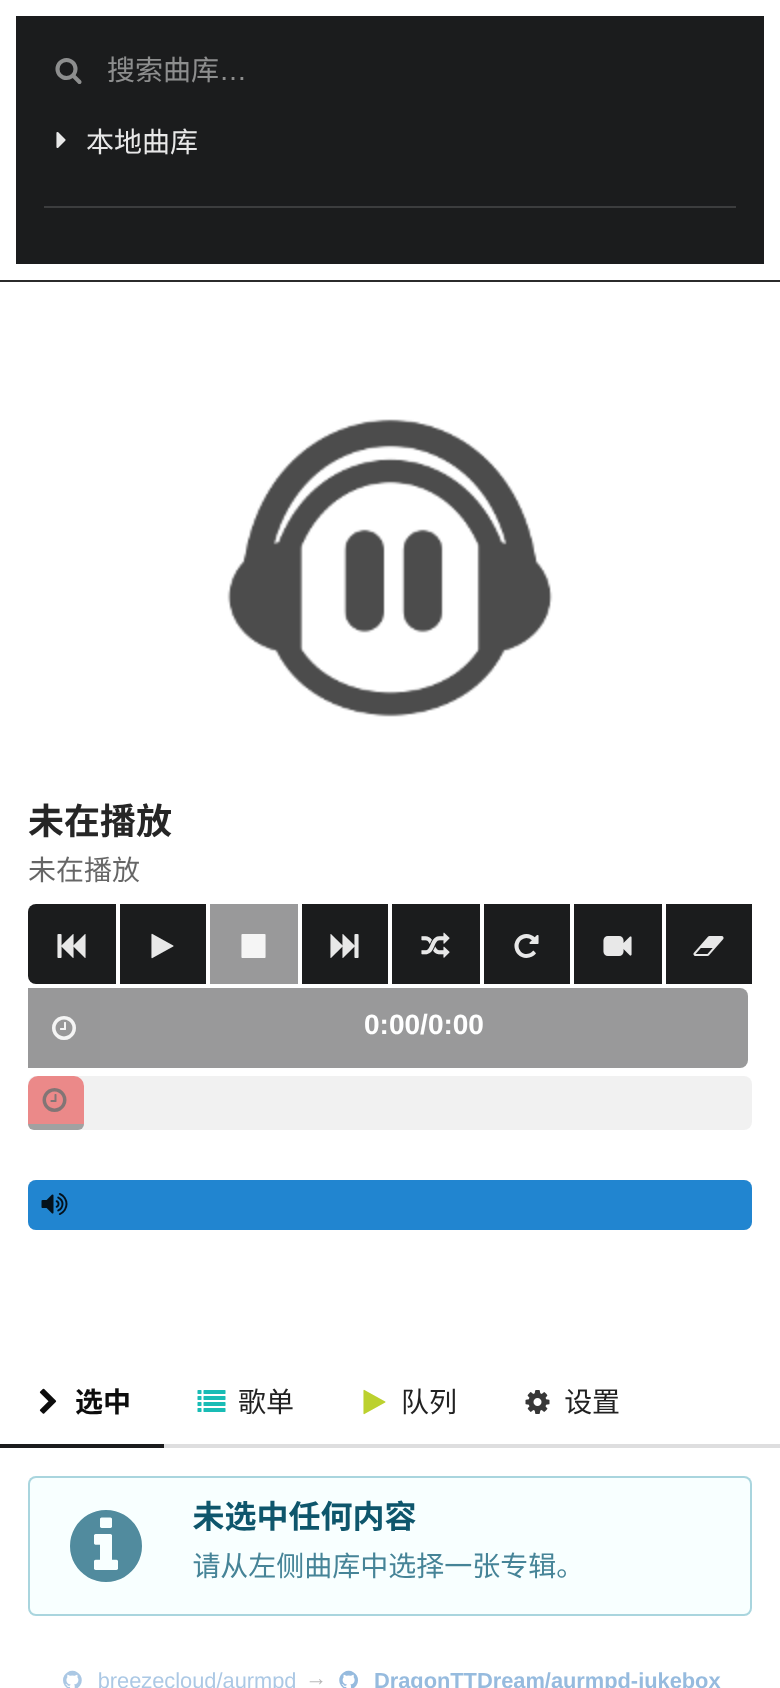
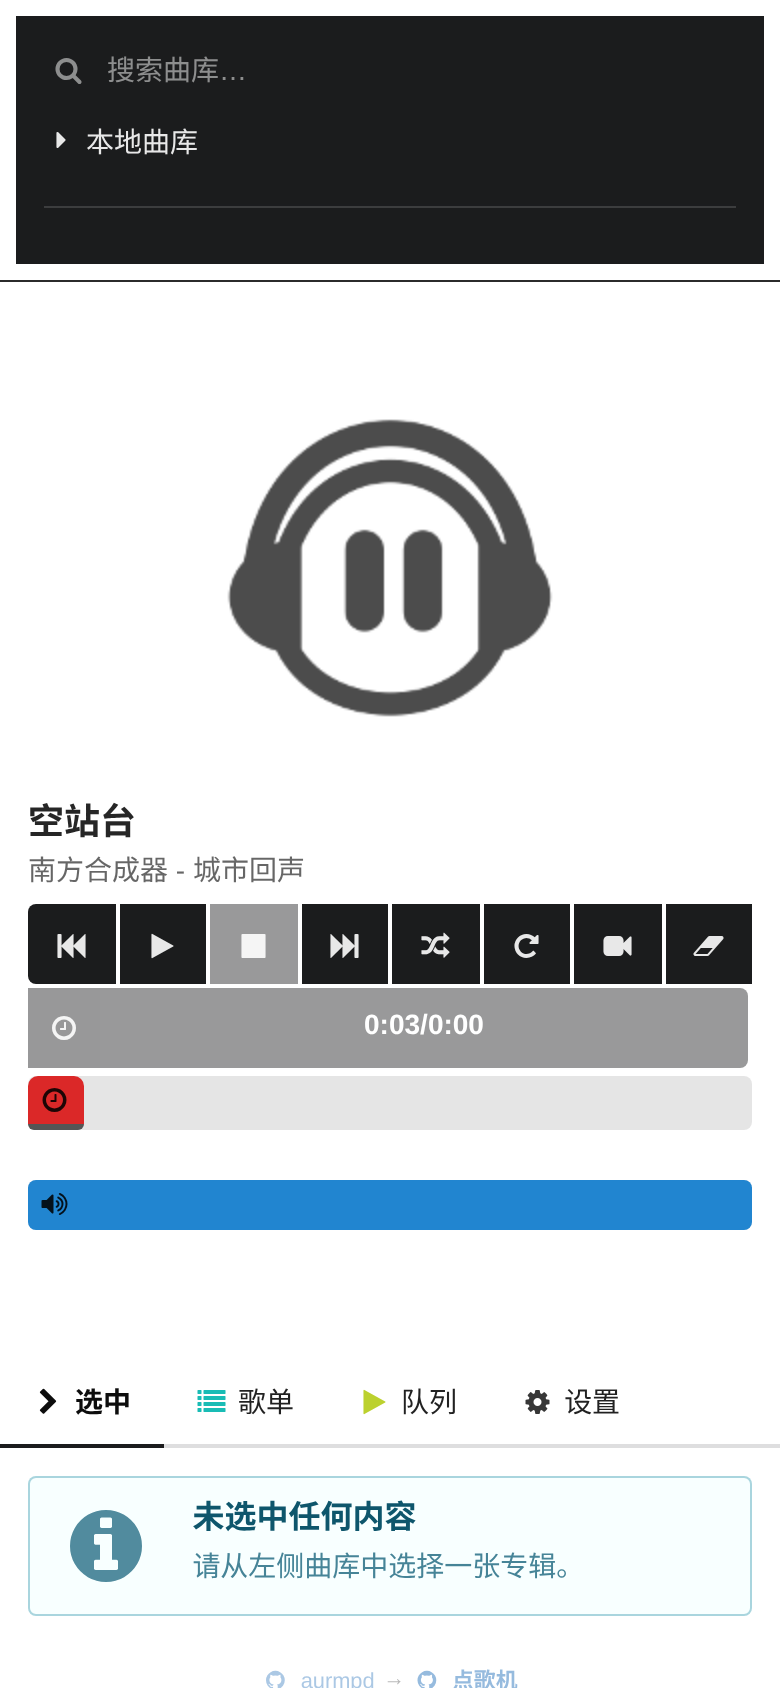
fix(v1.0.3): 页脚署名改为项目名（aurmpd→点歌机），补上缺失的 import
- version.js: 新增 UPSTREAM_NAME='aurmpd'、REPO_NAME='点歌机'；
  LABEL 常量保留，设置页「关于」仍显示完整 org/repo
- app.js: Links 组件改用 NAME 常量；**补上 import**——上一版漏加导致
  UPSTREAM_NAME is not defined、整页白屏（webpack 对未定义全局不报错，
  构建退出码仍为 0）
- 重拍 6 张截图（页脚为项目名）

diff --git a/aurial/src/js/jsx/app.js b/aurial/src/js/jsx/app.js
@@ -1,5 +1,5 @@
 import { h, Component } from 'preact';
-import {UPSTREAM_URL, UPSTREAM_LABEL, REPO_URL, REPO_LABEL} from '../version'
+import {UPSTREAM_URL, UPSTREAM_LABEL, UPSTREAM_NAME, REPO_URL, REPO_LABEL, REPO_NAME} from '../version'
 import Events from '../events'
 import PlayerExtras from '../playerextra'
 import Player from './player'
@@ -192,12 +192,12 @@ class Links extends Component {
 			<div className="links">
 				<a className="repo-link upstream" href={UPSTREAM_URL} title={t('app.upstream') + ' · ' + UPSTREAM_LABEL}>
 					<i className="github icon"></i>
-					<span className="repo-name">{UPSTREAM_LABEL}</span>
+					<span className="repo-name">{UPSTREAM_NAME}</span>
 				</a>
 				<span className="repo-sep">→</span>
 				<a className="repo-link fork" href={REPO_URL} title={t('app.thisRepo') + ' · ' + REPO_LABEL}>
 					<i className="github icon"></i>
-					<span className="repo-name">{REPO_LABEL}</span>
+					<span className="repo-name">{REPO_NAME}</span>
 				</a>
 			</div>
 		);

diff --git a/aurial/src/js/version.js b/aurial/src/js/version.js
@@ -16,5 +16,8 @@ export const UPSTREAM_LABEL = 'breezecloud/aurmpd';
 
 export const REPO_URL = 'https://github.com/DragonTTDream/aurmpd-jukebox';
 export const REPO_LABEL = 'DragonTTDream/aurmpd-jukebox';
+// 简短项目名，用于页脚显示
+export const UPSTREAM_NAME = 'aurmpd';
+export const REPO_NAME = '点歌机';
 
 export const LICENSE_NAME = 'GPL-2.0';
